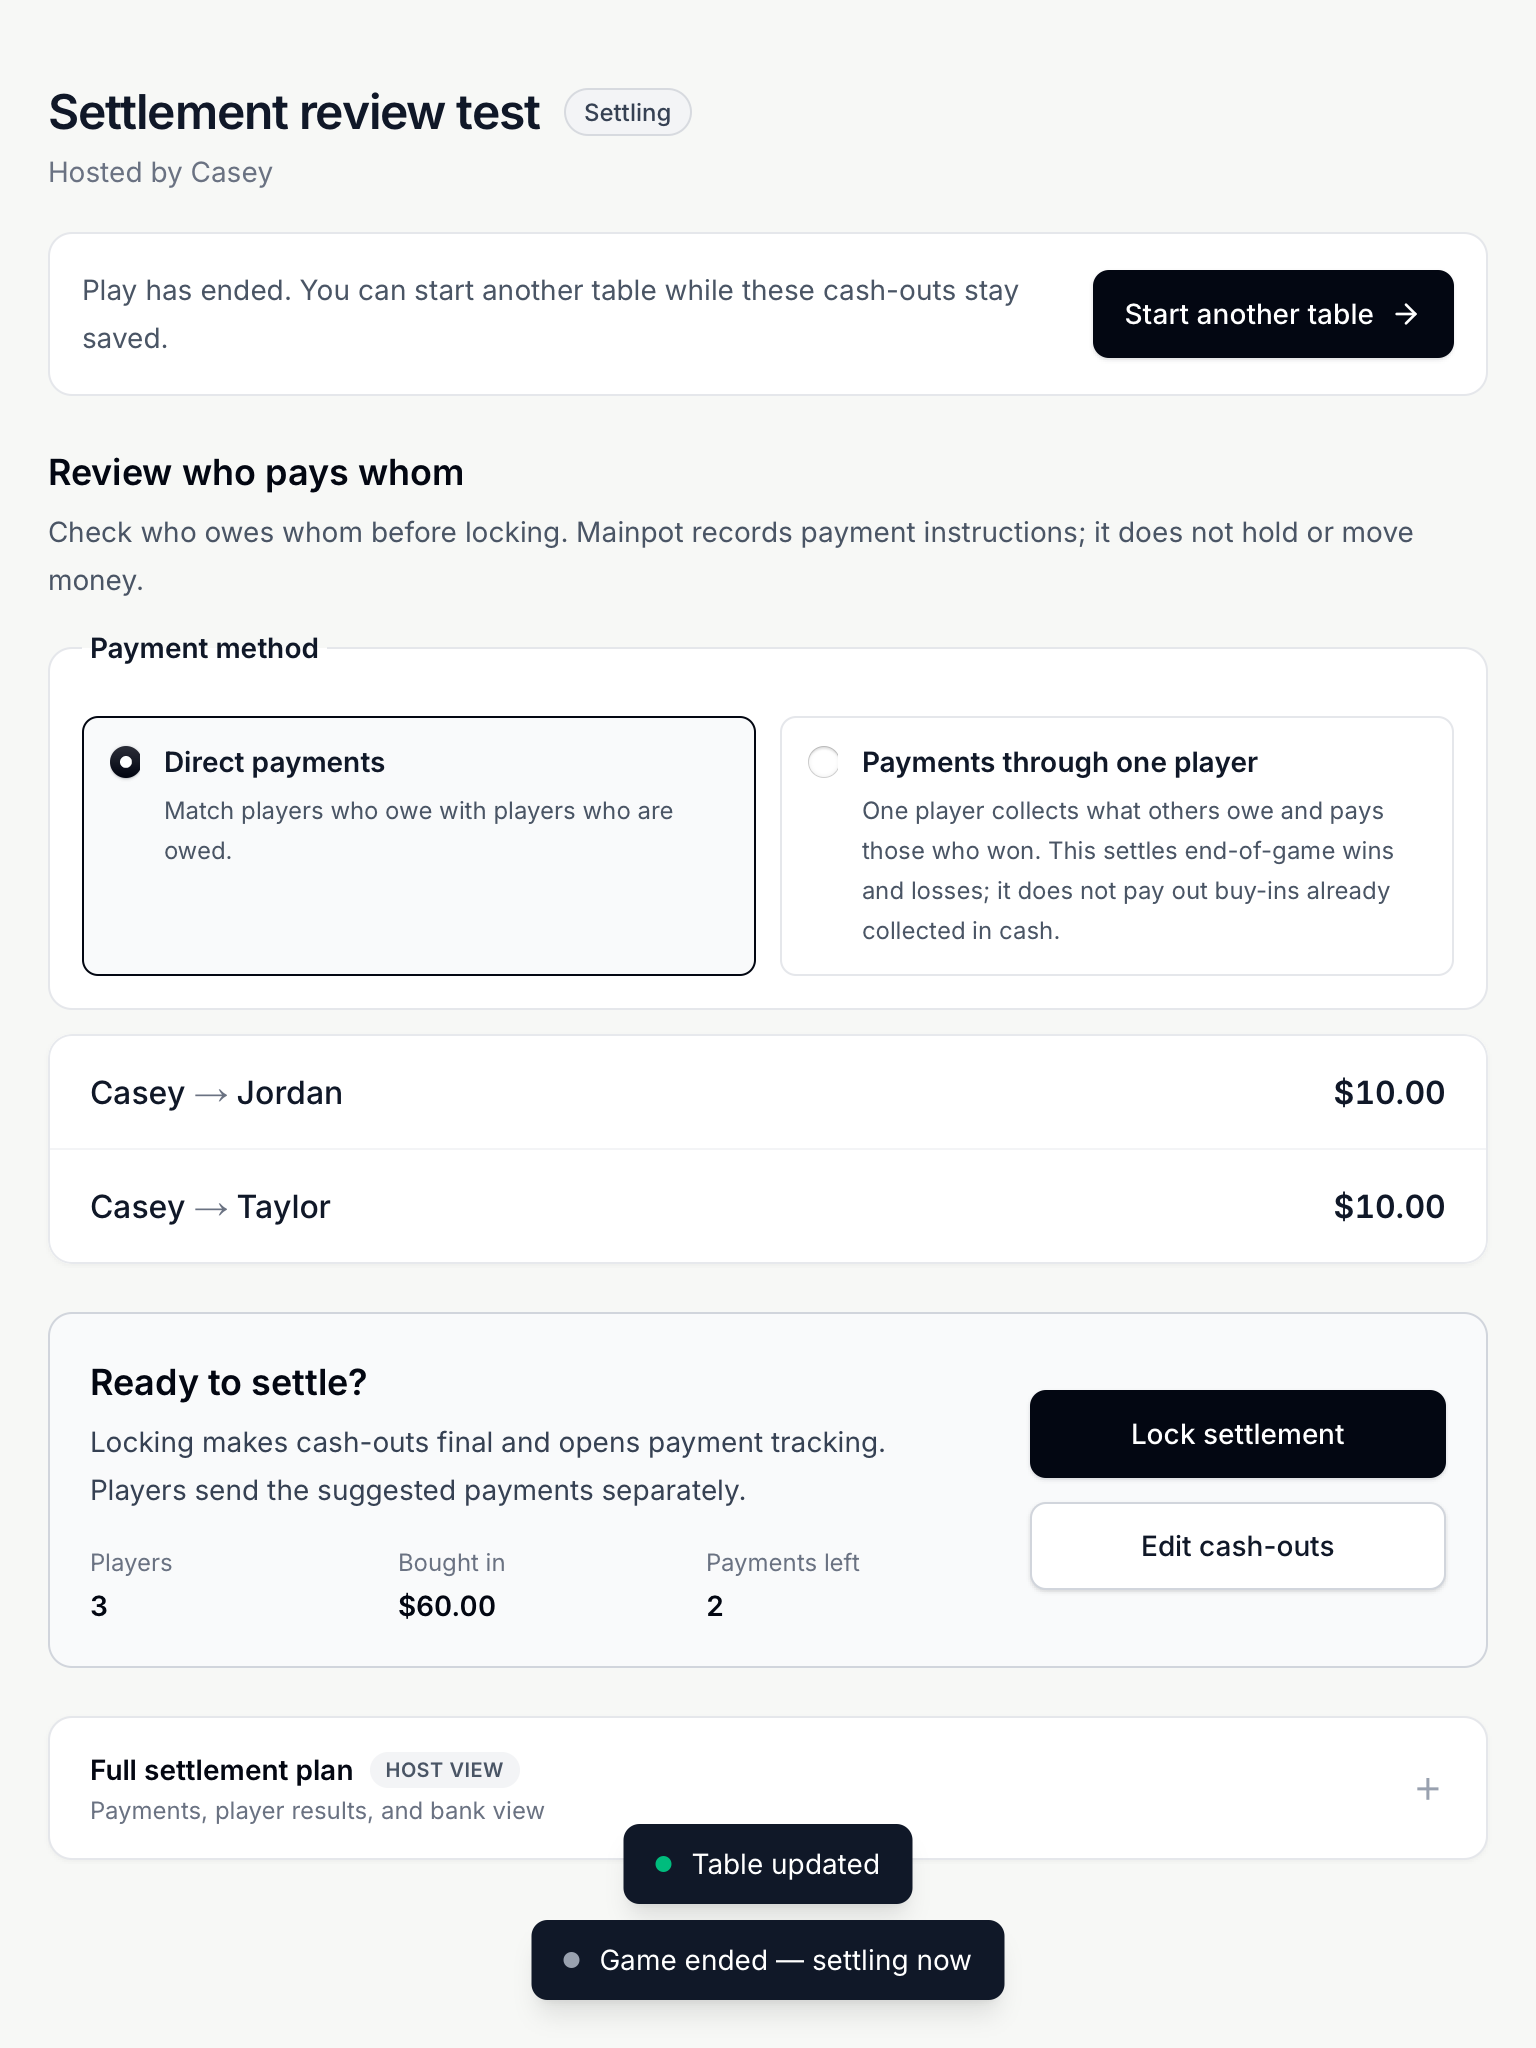
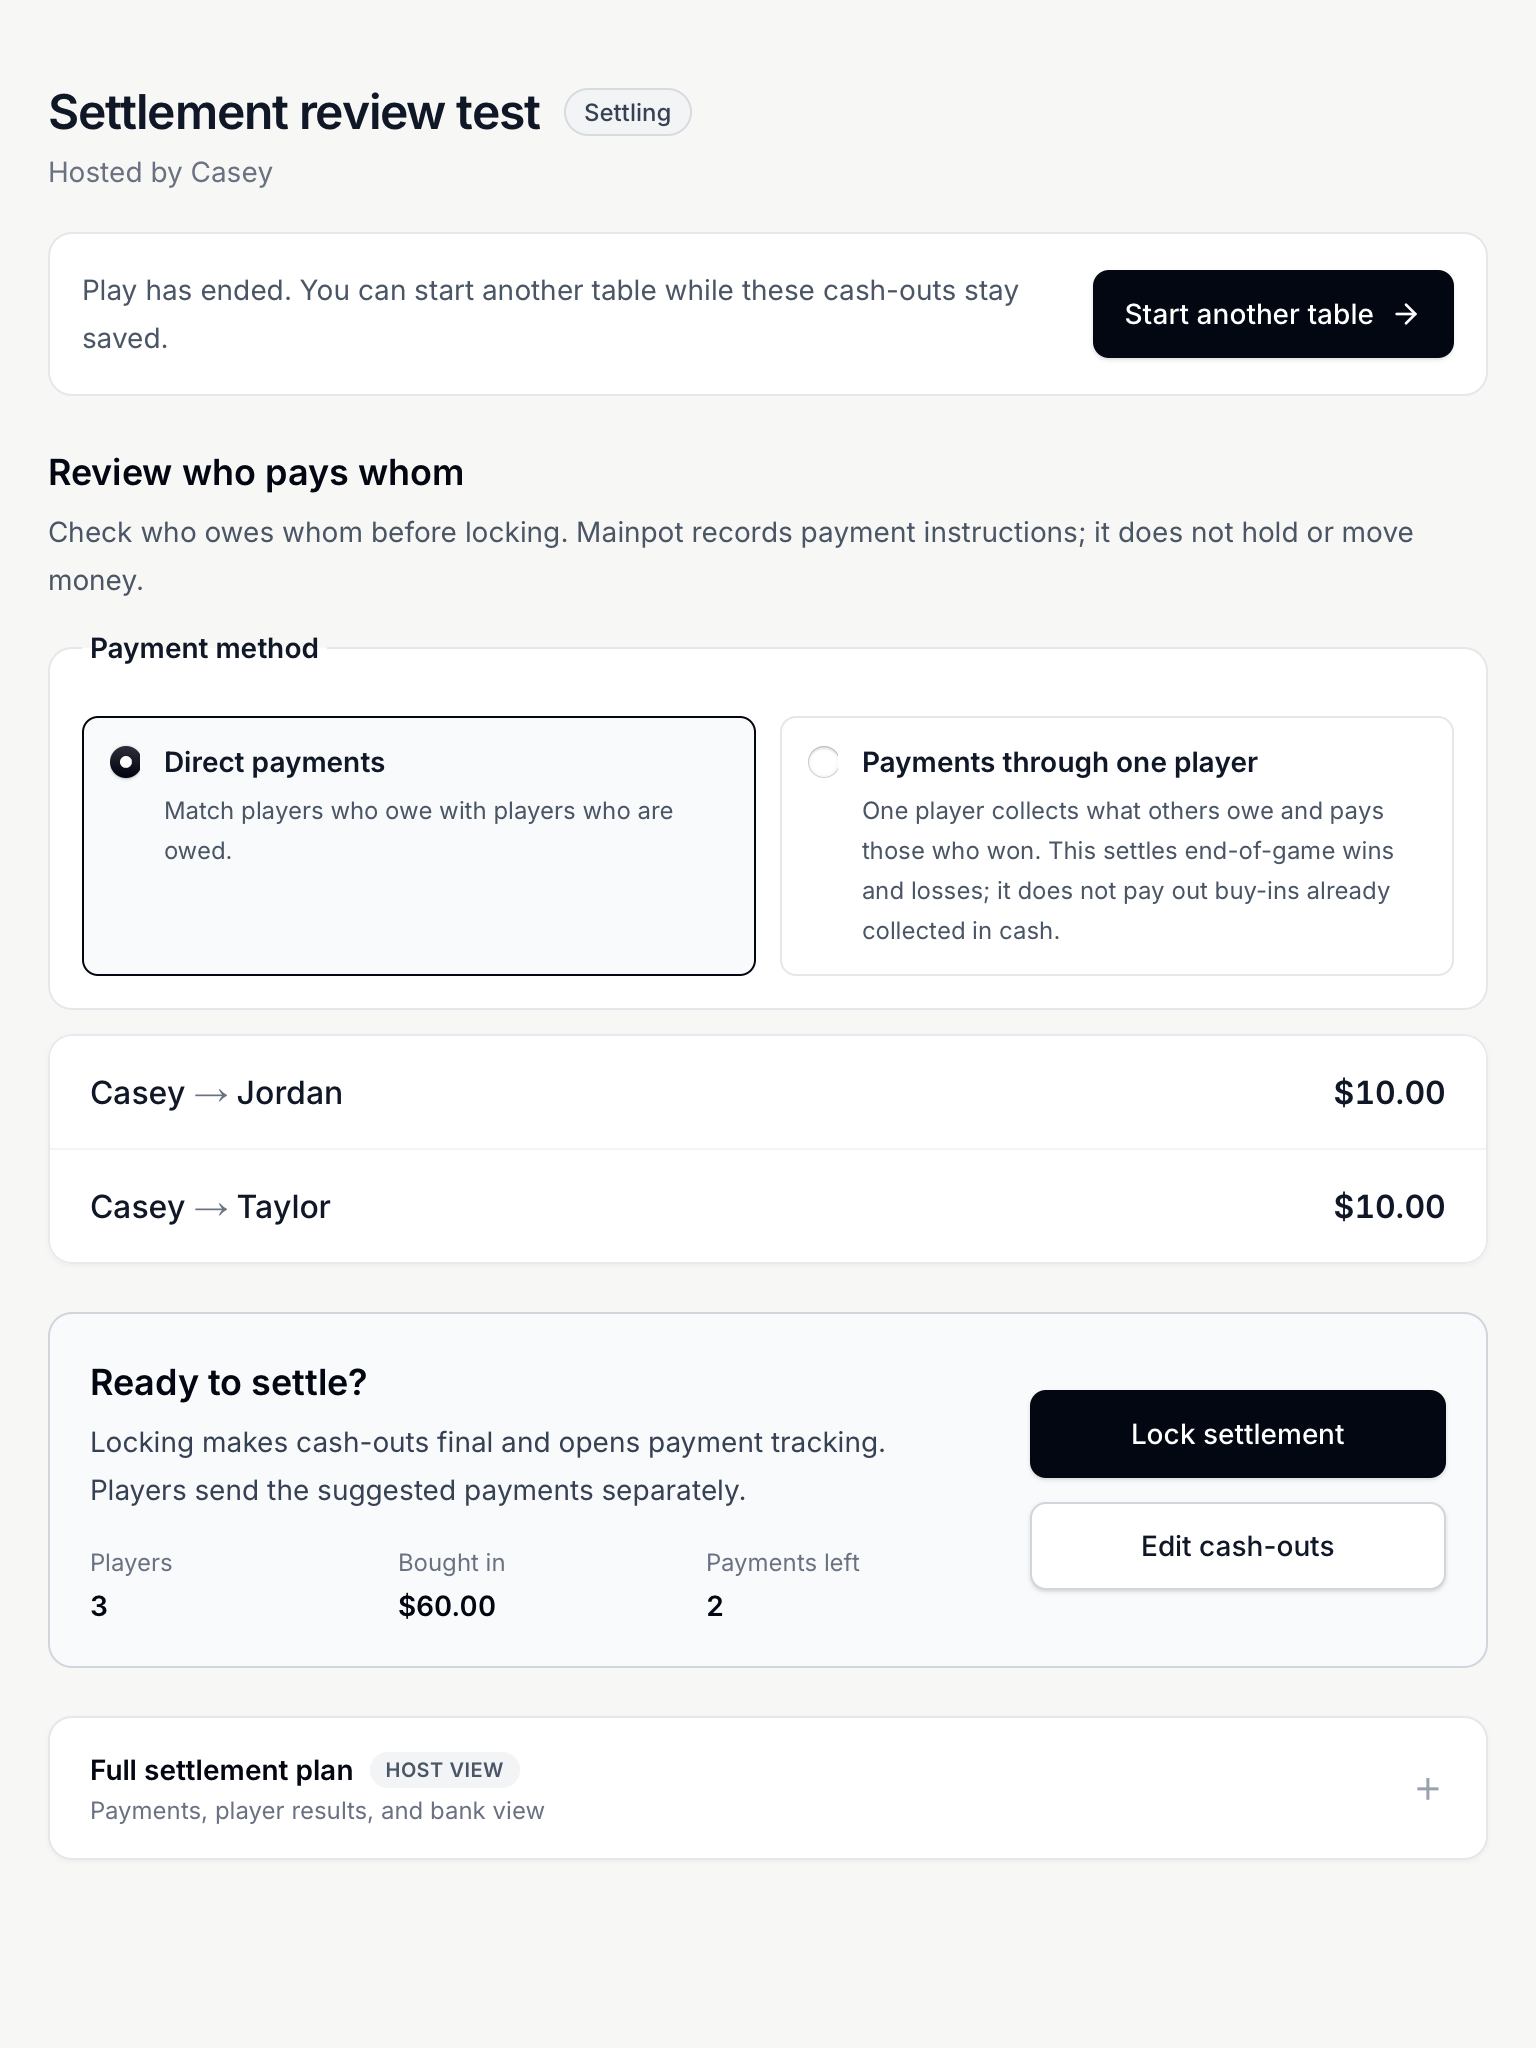
Capture settled account screens and bound audit cleanup

Changed region(s): [[0.3438, 0.875, 0.6562, 1.0]]

diff --git a/tests/e2e/copy-audit.ts b/tests/e2e/copy-audit.ts
@@ -10,6 +10,8 @@ export async function captureCopyAudit(page: Page, state: string) {
   if (!directory) return;
   const output = resolve(directory);
   await mkdir(output, { recursive: true });
+  // Capture settled copy, after transient toast messages clear naturally.
+  await expect(page.locator('[role="status"].fixed')).toHaveText("");
   await page.evaluate(() => Promise.allSettled(document.getAnimations()
     .filter(animation => Number.isFinite(animation.effect?.getComputedTiming().endTime))
     .map(animation => animation.finished)));
@@ -40,7 +42,10 @@ export async function captureCopyAudit(page: Page, state: string) {
   });
   const stem = `${test.info().project.name}-${state}`;
   await writeFile(`${output}/${stem}.json`, JSON.stringify(receipt, null, 2));
-  await page.screenshot({ path: `${output}/${stem}.png`, fullPage: true });
+  // WebKit full-page captures otherwise place sticky navigation at the
+  // current scroll position inside the exported image.
+  await page.evaluate(() => window.scrollTo({ top: 0, left: 0, behavior: "instant" }));
+  await page.screenshot({ path: `${output}/${stem}.png`, fullPage: true, timeout: 15_000 });
   expect(receipt.scrollWidth, `${state}: horizontal reflow`).toBeLessThanOrEqual(receipt.width);
   expect(receipt.violations, `${state}: axe violations`).toEqual([]);
   expect(receipt.clippedNames, `${state}: readable friend names`).toEqual([]);

diff --git a/tests/e2e/account-polish-flow.ts b/tests/e2e/account-polish-flow.ts
@@ -14,6 +14,7 @@ export async function runAccountPolishFlow(browser: Browser, baseURL: string) {
   const password = `AccountPolish-${suffix}`;
   const originalTemplateName = "Friday regulars";
   const updatedTemplateName = "Saturday regulars";
+  let primaryError: unknown;
 
   try {
     await page.goto("/signin");
@@ -106,7 +107,23 @@ export async function runAccountPolishFlow(browser: Browser, baseURL: string) {
     await expect(page.locator("#create-template")).toHaveCount(0);
     await page.reload();
     await expect(page.locator("#create-template")).toHaveCount(0);
+  } catch (error) {
+    primaryError = error;
+    throw error;
   } finally {
-    await context.close();
+    let closeTimer: ReturnType<typeof setTimeout> | undefined;
+    try {
+      await Promise.race([
+        context.close(),
+        new Promise<never>((_, reject) => {
+          closeTimer = setTimeout(() => reject(new Error("Account-flow context did not close within 10 seconds.")), 10_000);
+        }),
+      ]);
+    } catch (closeError) {
+      // A teardown failure must not replace the triggering assertion/capture error.
+      if (primaryError === undefined) throw closeError;
+    } finally {
+      if (closeTimer) clearTimeout(closeTimer);
+    }
   }
 }

diff --git a/docs/audits/2026-10-04/branding/REPORT.md b/docs/audits/2026-10-04/branding/REPORT.md
@@ -41,13 +41,15 @@ The doubled-text review also exposed a payment-method fieldset extending to 338p
 
 Pre-commit local results and browser evidence are recorded here after the pass. Existing end-to-end role/text locators are updated to the actual copy while preserving amount, access, ownership, recovery, and payment assertions. Optional account-audit receipts are collected only from synthetic local test accounts.
 
-The public audit covers twelve routes on six headless profiles: Chromium desktop, 320px Chromium, Pixel 5 emulation, iPhone WebKit portrait/landscape, and desktop WebKit. It also exercises keyboard setup, nine-seat settlement, the expanded plan at normal/doubled text, player-dialog focus return, maximum valid amounts, and Chromium service-worker recovery. Public screenshots reset scrolling after footer focus checks so they capture the opening message. Account/dashboard/friend/review receipts come from separate isolated Supabase journeys, rather than local mode where accounts are unavailable.
+The public audit covers twelve routes on six headless profiles: Chromium desktop, 320px Chromium, Pixel 5 emulation, iPhone WebKit portrait/landscape, and desktop WebKit. It also exercises keyboard setup, nine-seat settlement, the expanded plan at normal/doubled text, player-dialog focus return, maximum valid amounts, and Chromium service-worker recovery. Public and account screenshots reset scrolling before capture so sticky navigation appears at the top of the exported image. Account screenshots wait for transient notifications to clear naturally. Account/dashboard/friend/review receipts come from separate isolated Supabase journeys, rather than local mode where accounts are unavailable.
 
 The final public/room pass completed **126 axe/reflow scans and one Chromium service-worker recovery receipt**: zero detected axe violations, document overflows, clipped checked financial text, or uncaught page errors. The configured support fixture passed URL, new-tab relationship, and keyboard-focus checks in **42 scans**. There are **711 incomplete node checks** across repeated scans: 663 contrast/background checks, six unsupported-label reviews on a `pre`, and 42 references to conditionally mounted controls. These are recorded separately and are not certified passes. Screenshots were inspected for the landing, create form, narrow expanded settlement, and account states as available. A separate headless CLI capture checks the landing at 1440px.
 
-The final isolated account run completed **20 flows across five device profiles, with no retries**, and **40 additional axe/reflow/readable-name receipts**. These cover signup, dashboard first use/history, account data, empty/sent/incoming friend requests, and payment review. There were zero detected violations, document overflows, or clipped checked friend names. Its 26 incomplete node checks (16 contrast checks, ten conditional dialog references) remain separate from passing checks. Screenshot review found a long incoming friend name overlapping its action buttons before the layout fix; the [before image](evidence/friend-name-before.png) and [updated mobile image](evidence/accounts/mobile-chrome-friends-incoming-request.png) show the difference.
+The final isolated account run completed **20 flows across five device profiles, with no retries**, and **40 additional axe/reflow/readable-name receipts**. These cover signup, dashboard first use/history, account data, empty/sent/incoming friend requests, and payment review. There were zero detected violations, document overflows, or clipped checked friend names. Its 25 incomplete node checks (15 contrast checks, ten conditional dialog references) remain separate from passing checks. Screenshot review found a long incoming friend name overlapping its action buttons before the layout fix; the [before image](evidence/friend-name-before.png) and [updated mobile image](evidence/accounts/mobile-chrome-friends-incoming-request.png) show the difference.
 
 An earlier account run had 19 passes and one tablet-WebKit bank-flow failure: a zero draft appeared empty before blur. Input-event diagnostics were absent in that run, so its cause is unconfirmed. Read-only review found no ordinary snapshot-reset mechanism in `CashOutEntry`; no financial input logic was changed. Five focused repetitions then passed without retries, recording all five Taylor zero-input events and no disconnected/replaced input nodes ([receipt](evidence/tablet-bank-repeats.json)). The final 20-flow run also passed that tablet case. This is an intermittent observation to monitor, not a proven bug fix or a guarantee it cannot recur.
+
+An interim screenshot refresh was stopped after desktop WebKit stalled: 16 passes, one interrupted flow, and three unrun flows. That run is not counted as passing. The screenshot helper now has a 15-second capture timeout; account context cleanup is bounded at ten seconds and preserves the triggering error. The subsequent final refresh completed all **20 flows without retries in 1.5 minutes**, with all 40 receipts regenerated and the WebKit dashboard/account/review images inspected. This improves capture reliability and diagnostics, not financial application behavior.
 
 Final unit tests: **311 passed in 46 files**. Lint: **zero errors and one existing ref-cleanup warning** in `EarlyCashOutButton.tsx`. The final build and **23 desktop smoke tests** passed. Dependency policy passed with zero production vulnerabilities; the existing lint-only `braces` advisory exception expires October 17 and remains unpatched upstream. A prior smoke failure was a stale “Final net” text assertion; it was updated to “Final results” without removing the amount assertion. Exact pushed-commit CI and the release gate are checked separately. Earlier green CI does not verify this change; the final handoff identifies the exact commit/run.
 
